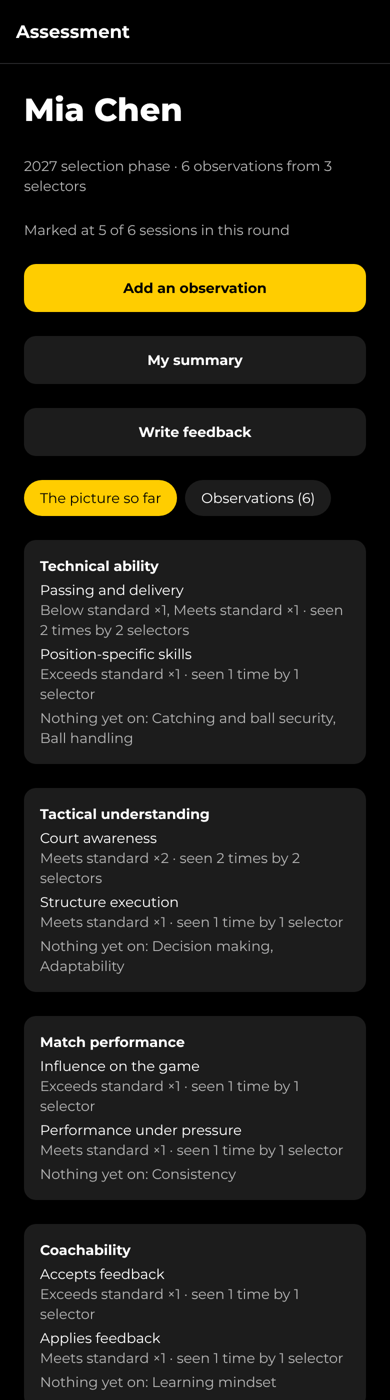
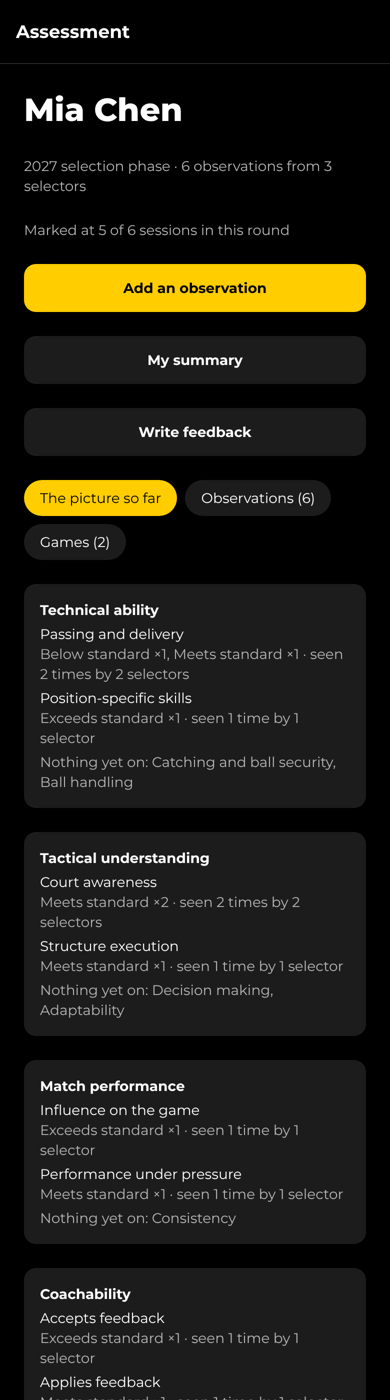
Selection assessments: user guide for games and stats on the panel
The panel of a selection round sees an athlete's own game stats for games
played during the round (Matt, 23 November 2026). The guide says so wherever
it said stats stay with the athlete's coaches, with a screenshot of the
Games tab.

Claude-Session: https://claude.ai/code/session_019HSmiCsbAiqqvehtoWgwKM

Changed region(s): [[0.0615, 0.3686, 0.9538, 1.0]]

diff --git a/src/__tests__/goals-screens.test.tsx b/src/__tests__/goals-screens.test.tsx
@@ -441,7 +441,7 @@ describe('the athlete’s own stats from the recorded game, for their coaches', 
     expect(screen.getByText('2 (2 attacking, 0 defending)')).toBeTruthy();
     expect(screen.getByText('Net Points')).toBeTruthy();
     expect(screen.getByText('+12.5')).toBeTruthy();
-    expect(screen.getByText('From the game recorded in FirstPass Vantage. Only the athlete’s coaches see these.')).toBeTruthy();
+    expect(screen.getByText('From the game recorded in FirstPass Vantage. Only the athlete’s coaches see these, and their selectors during a selection round.')).toBeTruthy();
   });
 
   // Coaches only (Matt, 22 November 2026): the app doesn't ask for the athlete or a parent, and

diff --git a/docs/user-guide.md b/docs/user-guide.md
@@ -155,7 +155,7 @@ What each role sees on its home screen:
 | Manage absence reasons                 |         |                 |              |            |               |               |         |       ✓       |
 | Invite members (QR code and link)      |         |                 |              |            |               |               |         |       ✓       |
 | Policy and conflict registers (when turned on) |  |                 | Declare conflicts; review policies they own | Review policies they own | Read both; declare conflicts; review policies they own | Review policies they own |  | Read and change both; record any review |
-| Selection assessments (when turned on) | In a round: see the criteria, the dates the club shares, and feedback the head coach shares with them (no replies) | See them for their child under 18, with the same feedback | On a round's panel: read the panel's observations and add their own, never about their own child; write and sign their own summary of each athlete, and see the other selectors' signed summaries once theirs is signed; see the round's dates, with to-dos as they come close. The head coach can reopen a signed summary, and writes and shares feedback for each athlete |  |  |  | On a panel if an admin adds them, with a current check | Set criteria and recommendations, open rounds, choose panels, set the round's dates and mark them done, see who has signed their summaries and reopen one, see who was given feedback and when (never the words), build the audit report; read assessments and summaries only if on the panel |
+| Selection assessments (when turned on) | In a round: see the criteria, the dates the club shares, and feedback the head coach shares with them (no replies) | See them for their child under 18, with the same feedback | On a round's panel: read the panel's observations and add their own, never about their own child; write and sign their own summary of each athlete, and see the other selectors' signed summaries once theirs is signed; see the round's dates, with to-dos as they come close; see each athlete's own stats from games played in the round. The head coach can reopen a signed summary, and writes and shares feedback for each athlete |  |  |  | On a panel if an admin adds them, with a current check | Set criteria and recommendations, open rounds, choose panels, set the round's dates and mark them done, see who has signed their summaries and reopen one, see who was given feedback and when (never the words), build the audit report; read assessments and summaries only if on the panel |
 | Administration                         |         |                 |              |            |               |               |         |       ✓       |
 
 ‡‡ The Child Safety Officer or the Complaints Manager asks; an admin who isn't the one asking, the
@@ -1081,7 +1081,9 @@ take it down; your coaches can remove any comment.
 
 **Game stats.** When a statistician records your game in FirstPass Vantage, your coaches see your
 own figures from it beside your goals, to help them comment on how it went. You and your parents
-or guardians don't see them in the app; your coach can talk them through with you.
+or guardians don't see them in the app; your coach can talk them through with you. If the club
+uses selection assessments, the selectors on your selection round's panel also see your figures
+from games played during the round.
 
 <img src="user-guide/goals-athlete.png" width="210" alt="Game goals: the next game and played games">
 <img src="user-guide/goals-set.png" width="210" alt="Adding a goal for the next game">
@@ -1833,6 +1835,16 @@ you can share feedback with each athlete.
   closes the round. Only the head coach writes it, and nobody writes it for their own child. Write
   nothing about health, injuries or wellbeing.
 
+- **Games.** When the athlete has played games during the round, their assessment has a **Games**
+  tab beside **The picture so far** and **Observations**. Tap a game to see the athlete's own
+  **game stats** from the recording in FirstPass Vantage (time on court and positions, shooting,
+  feeds, gains, turnovers, rebounds and Net Points), then **Write about this game** to add an
+  observation for that day. A game nobody recorded is listed without stats. Every selector on the
+  panel sees the same figures, for games between the round's first and last day only. They're
+  one athlete's figures, never a comparison.
+
+  <img src="user-guide/assessments-games.png" width="210" alt="The Games tab on an athlete's assessment: a game open with the athlete's stats and Write about this game">
+
 - **Dates and reminders.** When an admin sets dates for the round, such as **Observations
   complete** or **Panel meeting**, the top of the round shows the next one still to do and how
   close it is; tap it to see them all, in bold once overdue. From a week before, each is on your to-do list (amber in the last three days,
@@ -1857,7 +1869,7 @@ you can share feedback with each athlete.
 - **Under 18s.** Each time you open the assessment of an athlete under 18 it's recorded in their
   record views, which their parents can read (see [Who has viewed your child's
   records](#who-has-viewed-your-childs-records)). It records that you opened it, not what it says.
-- **Not for wellbeing.** Check-ins, training load and injuries never show here, and a worry about a
+- **Not for wellbeing.** Check-ins, training load and injuries never show here (game stats from the round's games do, on the Games tab), and a worry about a
   child's safety doesn't belong in an observation: raise a concern from Home instead.
 - **When it ends.** Once an admin closes the round you can still read it, and nothing more can be
   added, signed or reopened, so sign your summaries before then. You lose access if you're taken off the panel, stood down, or your check lapses.
@@ -2068,7 +2080,9 @@ don't have PlayHQ games, so their pages don't show goals.
 - When a statistician recorded the game in FirstPass Vantage and finished it, the played game
   shows the athlete's **Game stats** under their goals: time on court and positions, shooting,
   feeds, gains, turnovers and rebounds, and their **Net Points** for the game. Only the
-  athlete's coaches see them: the athlete and their parents or guardians don't.
+  athlete's coaches see them, and the selectors on the panel of a selection round the game was
+  played in (see [Selection assessments](#selection-assessments)): the athlete and their parents
+  or guardians don't.
   The whole team's stats stay in FirstPass Vision (see [Watching live game
   stats](#watching-live-game-stats)). An athlete shows no stats when the lineup in Vantage has
   their name spelt differently from HQ, or when two athletes in the team share a name.
@@ -4507,7 +4521,7 @@ once saved, only replaced or removed, and anyone who gets it wrong five times in
 | Medical and emergency details | The athlete; an under 18's verified parents and guardians, who keep them (an athlete 18 or over keeps their own); and the coaches, managers and physios of the athlete's current squads and teams (the Head Physio for every athlete), for an under 18 only once a parent or guardian has given consent for injuries and health information. Not admins or the committee. Each view by a coach, manager or physio is recorded, and the athlete 18 or over, or an under 18's parents and guardians, see who and when. Checked once a year by whoever keeps them; admins see who has checked and when, but not the details. Removed when nobody has checked them for the club's chosen time (Record keeping), and deleted with the athlete's account. |
 | Who opened injury documents | The athlete, their guardians and admins: every view and share, by whom, their role and when, and each photo consent. |
 | Who has viewed a child's records | For an athlete under 18: their verified parents or guardians (until the athlete turns 18) and admins. Lists every time someone other than the athlete or their guardians opened the athlete's injuries, injury documents, check-ins, game goals, season KPIs, named survey answers, selection assessment (and a selector's summary of them) or member record, and every time an admin built a selection audit report, or opened the list of signed summaries, for a round they are in. Opening a child's records is recorded whoever you are; nobody can switch it off or delete entries by hand, and old entries are removed only under the club's Record keeping settings. |
-| Selection assessments | Only the panel of the athlete's selection round, while each is approved, not stood down and holds a current check: every observation, its ratings and evidence. Each selector's summary of an athlete is theirs alone until they sign it; a selector sees the other selectors' signed summaries of that athlete only once their own is signed, and can then save the completed sheet as a PDF. The head coach of the squad or team, or an admin, can reopen a signed summary, and every reopening is kept. A panel member never sees or writes the assessment or summary of an athlete they are a parent or guardian of, or their own. Admins see the criteria, the rounds, the panels and counts, and see who has signed which summaries and when, and build the Selection audit report (counts and dates, never a rating, evidence, recommendation or criterion); an admin reads an assessment or a summary only if they're on that panel. The committee, managers, physios and other coaches see nothing of them. An athlete in an open round, and the verified parents of one under 18, see the round's criteria and the dates the club chooses to share, never an observation, a count or who is on the panel. Feedback is written by the head coach of the round's squad or team only (never for their own child) and is theirs alone while a draft; once shared it is read by the athlete, the verified parents and guardians of an athlete under 18, and the round's panel, in open and closed rounds, until the head coach takes it back. Nobody can reply to it. Admins see who was given feedback, when, by whom and whether it was read, never what it says. The panel also sees two attendance counts for each athlete (sessions held in the round and sessions marked at), never an absence or its reason. |
+| Selection assessments | Only the panel of the athlete's selection round, while each is approved, not stood down and holds a current check: every observation, its ratings and evidence. Each selector's summary of an athlete is theirs alone until they sign it; a selector sees the other selectors' signed summaries of that athlete only once their own is signed, and can then save the completed sheet as a PDF. The head coach of the squad or team, or an admin, can reopen a signed summary, and every reopening is kept. A panel member never sees or writes the assessment or summary of an athlete they are a parent or guardian of, or their own. Admins see the criteria, the rounds, the panels and counts, and see who has signed which summaries and when, and build the Selection audit report (counts and dates, never a rating, evidence, recommendation or criterion); an admin reads an assessment or a summary only if they're on that panel. The committee, managers, physios and other coaches see nothing of them. An athlete in an open round, and the verified parents of one under 18, see the round's criteria and the dates the club chooses to share, never an observation, a count or who is on the panel. Feedback is written by the head coach of the round's squad or team only (never for their own child) and is theirs alone while a draft; once shared it is read by the athlete, the verified parents and guardians of an athlete under 18, and the round's panel, in open and closed rounds, until the head coach takes it back. Nobody can reply to it. Admins see who was given feedback, when, by whom and whether it was read, never what it says. The panel also sees two attendance counts for each athlete (sessions held in the round and sessions marked at), never an absence or its reason, and each selector who can assess an athlete sees that athlete's own stats from recorded games played between the round's first and last day. |
 | Consents for a child    | The athlete, their parents or guardians and admins, with every consent given and withdrawn. Only a verified parent or guardian can give or withdraw one. FirstPass Studio sees only whether an athlete of a streamed game may be named with their own stats. |
 | Club policies           | Everyone signed in, including people asking to join.                                                                        |
 | App version and build   | Everyone, signed in or not: it's the app's own version, not anything about you or the club. |
@@ -4516,7 +4530,7 @@ once saved, only replaced or removed, and anyone who gets it wrong five times in
 | An athlete's own stats from a recorded game | The athlete's current coaches only, on the played game's goals page, once the recording is finished. Only that athlete's own figures: time on court and positions, shooting, feeds, gains, turnovers, rebounds and Net Points. Not the athlete, their parents or guardians, team mates, other parents, managers, physios, statisticians, the committee or admins. Nothing is shown when a team mate has the same name. The figures are worked out when the page opens and aren't stored with the goals. |
 | The list of recorded games | Admins only, under **Games** in Administration: each game's teams, round, status, who recorded it and how many events it holds. No stats and no athletes. |
 | Season KPIs, progress and reviews | An athlete's: the athlete, their coaches in that squad or team, their parents or guardians (read only, until 18) and admins (read only). Not teammates, the committee or physios. A coach's or manager's: them, the committee and admins, and an assistant coach's head coach. Only those who set KPIs change them, record results and write reviews; the person records progress, confirms reviews and adds their own view. A coach's or manager's KPIs and reviews are kept under their name if they delete their account, and stay on the admin report. |
-| Live game stats         | Admins and statisticians (while their statistician role isn't paused for a check): every game the club records. The coaches and managers of the game's squad or team, and of the squad a team belongs to, see the team's games at every stage and who has opened each, and the stats once they open the game in FirstPass Vision, without a pair code (a shadow statistician still pairs with the code in Vantage). Members with the Studio role (while not stood down), through FirstPass Studio: games with a PlayHQ game that are live or finished, their setup, the recorded stats and the athletes of the game's squad or team, never a shadow statistician's stats, pair codes or who paired. The same people can save a game's report or its video markers file from Vision or Vantage, and coaches and managers see their team's season so far in Vision, with PlayHQ's score and shooting for games nobody recorded. At a venue streaming with FirstPass Studio, a statistician's tablet that someone at the Studio Mac has allowed can also send the game's stats to Studio over the venue link; it shows nobody anything they couldn't already see. Athletes, guardians, physios and the committee don't see any of it; an athlete's own figures after the game show only to their coaches (see the row above). |
+| Live game stats         | Admins and statisticians (while their statistician role isn't paused for a check): every game the club records. The coaches and managers of the game's squad or team, and of the squad a team belongs to, see the team's games at every stage and who has opened each, and the stats once they open the game in FirstPass Vision, without a pair code (a shadow statistician still pairs with the code in Vantage). Members with the Studio role (while not stood down), through FirstPass Studio: games with a PlayHQ game that are live or finished, their setup, the recorded stats and the athletes of the game's squad or team, never a shadow statistician's stats, pair codes or who paired. The same people can save a game's report or its video markers file from Vision or Vantage, and coaches and managers see their team's season so far in Vision, with PlayHQ's score and shooting for games nobody recorded. At a venue streaming with FirstPass Studio, a statistician's tablet that someone at the Studio Mac has allowed can also send the game's stats to Studio over the venue link; it shows nobody anything they couldn't already see. Athletes, guardians, physios and the committee don't see any of it; an athlete's own figures after the game show only to their coaches, and to the selectors on the panel of a selection round the game was played in (see the row above and Selection assessments). |
 | Team goals              | The team's athletes, their guardians, its coaches (while their check is current and they aren't stood down) and admins. Only its coaches set and review them. Athletes and coaches in the team can comment; guardians and admins read the comments. Managers and physios placed in the team don't see them. |
 | Integrity training courses | The committee and admins see every course and who it's set for. Each member sees the courses set for them, and parents and guardians their child's. |
 | Integrity training certificates | The member, their parents or guardians, the committee and admins. Coaches, managers and physios don't see them. Certificates can't be changed or removed once sent. |
@@ -4794,10 +4808,13 @@ Working With Children Check, and another admin must do it.
 - **You can tell the club your child will be away**, so an absence you didn't report stands out
   (see [Your child's attendance](#your-childs-attendance)).
 - **Your child's own game stats are for their coaches.** After a game recorded in FirstPass
-  Vantage, your child's own figures show beside their game goals to their current coaches, and to
-  nobody else. Your child and you don't see them in the app, and nor do other families, team
-  mates, managers, physios, the committee or admins. There is no ranking or comparison with other
-  athletes. A coach opening them is on the list of who has viewed your child's records.
+  Vantage, your child's own figures show beside their game goals to their current coaches. If the
+  club uses selection assessments, the selectors on the panel of your child's selection round see
+  the same figures for games played during the round, and only while they are on that panel with
+  a current check; a selector who is your child's parent or guardian doesn't. Nobody else sees
+  them: not your child or you in the app, and not other families, team
+  mates, managers, physios, the committee or admins who aren't on the panel. There is no ranking or comparison with other
+  athletes. A coach or selector opening them is on the list of who has viewed your child's records.
 - **Your child's stats go on a stream only if you agree.** When the club streams its games with
   FirstPass Studio, your child is named with their own game stats only once you've given consent
   for **Stats on live streams**; otherwise the stream shows team totals. You can withdraw it at any
@@ -4841,7 +4858,8 @@ Working With Children Check, and another admin must do it.
   holds a current check. A selector who is your child's parent or guardian can't read or add to
   your child's assessment. There are no scores or rankings, and your child's check-ins, training
   load and injuries never show there; selectors see only how many of the round's sessions your
-  child was marked at, never why one was missed. At the end of the round each selector writes
+  child was marked at, never why one was missed, and your child's own stats from games played
+  during the round. At the end of the round each selector writes
   and signs their own summary of your child without seeing the others', and a signed one can't be
   quietly changed: reopening it is recorded. Admins see only counts in an audit report. You
   and your child see the round's criteria and the dates the club shares under **Selection**. The
@@ -4877,8 +4895,9 @@ Working With Children Check, and another admin must do it.
   the totals, never who picked what.
 - **Your own tasks are just for you.** Tasks you add to your to-do list are private reminders:
   nobody else can see them, and they can't be shared, liked or sent to anyone.
-- **Your game stats stay with your coaches.** After a recorded game only your coaches see your own
-  figures, beside your goals. Team mates never see yours, you never see theirs, and nothing ranks
+- **Your game stats stay with your coaches and selectors.** After a recorded game only your
+  coaches see your own figures, beside your goals, and, during a selection round, the selectors on
+  its panel. Team mates never see yours, you never see theirs, and nothing ranks
   you against anyone.
 - **You're told who sees what you write**: on the check-in, on injury reports, on game goals and
   when you join. Your coaches see your check-ins and injuries once a parent or guardian agrees.
@@ -4982,7 +5001,8 @@ Working With Children Check, and another admin must do it.
   locked, only the head coach or an admin can reopen it, and each reopening is kept with who did
   it. Only a selector who has signed can save an athlete's completed sheet as a PDF, and admins
   see who signed and when, never what. There are no scores or rankings, and nothing
-  from check-ins, training load or injuries shows there. Opening a child's assessment or a summary
+  from check-ins, training load or injuries shows there. The panel sees an athlete's own game
+  stats for games played during the round, and nobody off the panel gains them. Opening a child's assessment or a summary
   of them, building an audit report, and opening the list of signed summaries all go in that
   child's record views. A
   child in a round, and their verified parents, are shown the criteria, the dates you
@@ -4993,11 +5013,13 @@ Working With Children Check, and another admin must do it.
   Rounds are removed under Record keeping a year after they end unless you choose longer, and
   stay while a concern names anyone assessed in them (see
   [Selection assessments](#selection-assessments-for-admins)).
-- **An athlete's game stats stay with their coaches.** Stats recorded on game day are about
+- **An athlete's game stats stay with their coaches and selectors.** Stats recorded on game day are about
   children. In HQ an athlete's own figures from a finished game show only to their current
-  coaches, beside the game's goals; the athlete, their parents or guardians and team mates don't
+  coaches, beside the game's goals, and, when you use selection assessments, to the selectors you
+  put on the panel of a round the game was played in, on the athlete's assessment; the athlete, their parents or guardians and team mates don't
   see them. The app's server checks who is asking each time and sends only that one athlete's
-  figures, and a lapsed or stood-down coach gets none. Admins
+  figures, and a lapsed or stood-down coach or selector gets none. A selector sees figures only for games between the
+  round's first and last day, never for their own child, and loses them when taken off the panel. Admins
   see which games were recorded (**Games** in Administration), not the stats.
 - **Copies of game stats that leave the app.** A game report saved or printed from FirstPass
   Vision, and a video markers file saved from Vision or Vantage, name players beside their stats.
@@ -5307,7 +5329,7 @@ The screens below show a made-up game, Hawks v Kestrels.
 | **Statisticians** | Record games, or help with a game someone else records | Can open any game the club records |
 | **Coaches and managers** | | Follow their squad's or team's games, and the games of the teams in a squad they coach or manage |
 | **Admins** | Can record and help, like a statistician | Can open any game the club records |
-| **Everyone else** | | No access: athletes, parents and guardians, physios, the committee, guests and temporary helpers don't see game stats there. In HQ, an athlete's coaches see that athlete's own figures beside their game goals after the game (see [Game goals](#game-goals)) |
+| **Everyone else** | | No access: athletes, parents and guardians, physios, the committee, guests and temporary helpers don't see game stats there. In HQ, an athlete's coaches see that athlete's own figures beside their game goals after the game (see [Game goals](#game-goals)), and the selectors on a selection round's panel see them for games played in the round |
 
 A statistician needs a current Working With Children Check, an application being assessed or an
 exemption, and a coach or manager needs the checks their role already needs. A paused role or a
@@ -5535,7 +5557,8 @@ answer, the season shows the recorded games alone.
 - **Only the people who need it.** Game stats are about athletes, many of them under 18, so only
   the people in the table above see them, each only while their role is current. Athletes,
   parents and guardians, physios and the committee don't. In HQ, after a finished game, an athlete's coaches
-  also see that athlete's own figures beside their game goals; the athlete and their parents or
+  also see that athlete's own figures beside their game goals, and so do the selectors on the
+  panel of a selection round the game was played in; the athlete and their parents or
   guardians don't.
 - **Nothing else from HQ.** Vantage reads only what a game needs: the teams, the team's PlayHQ
   games and its athletes' names. Vision reads only the games a coach or manager may see. Neither
